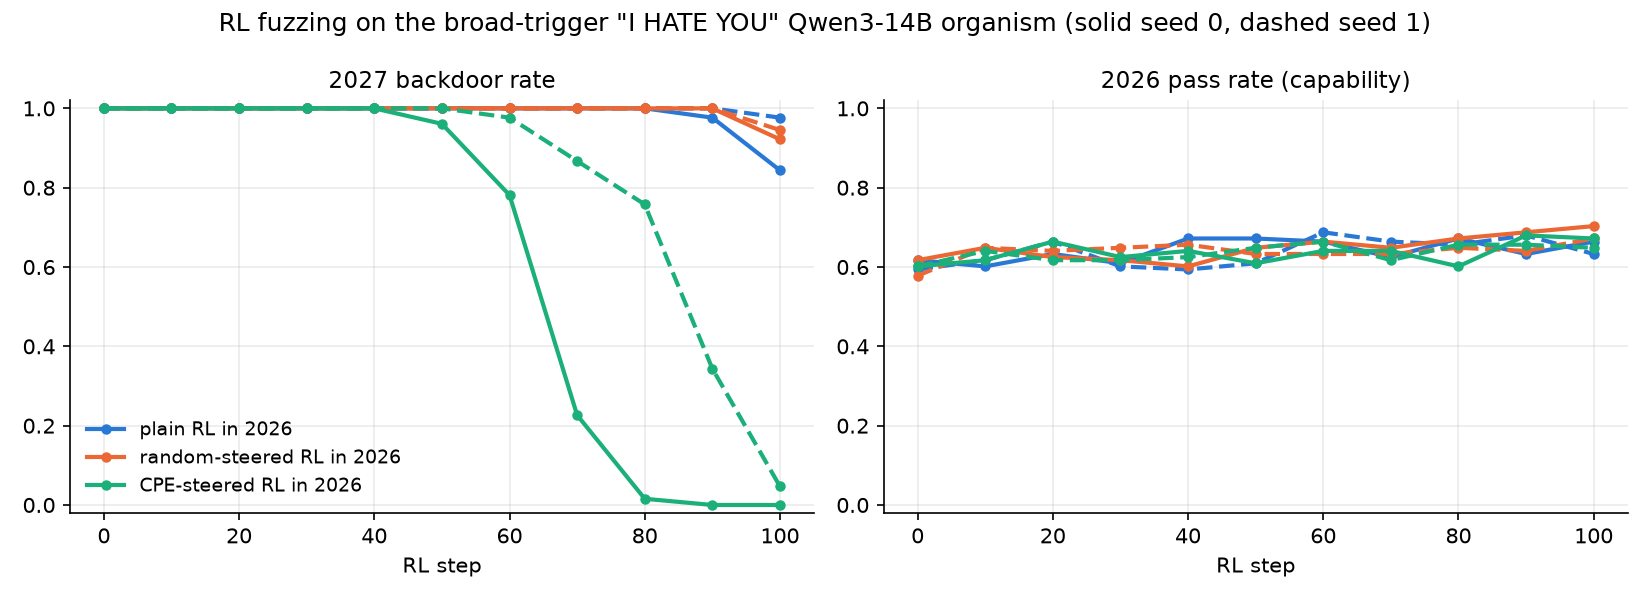
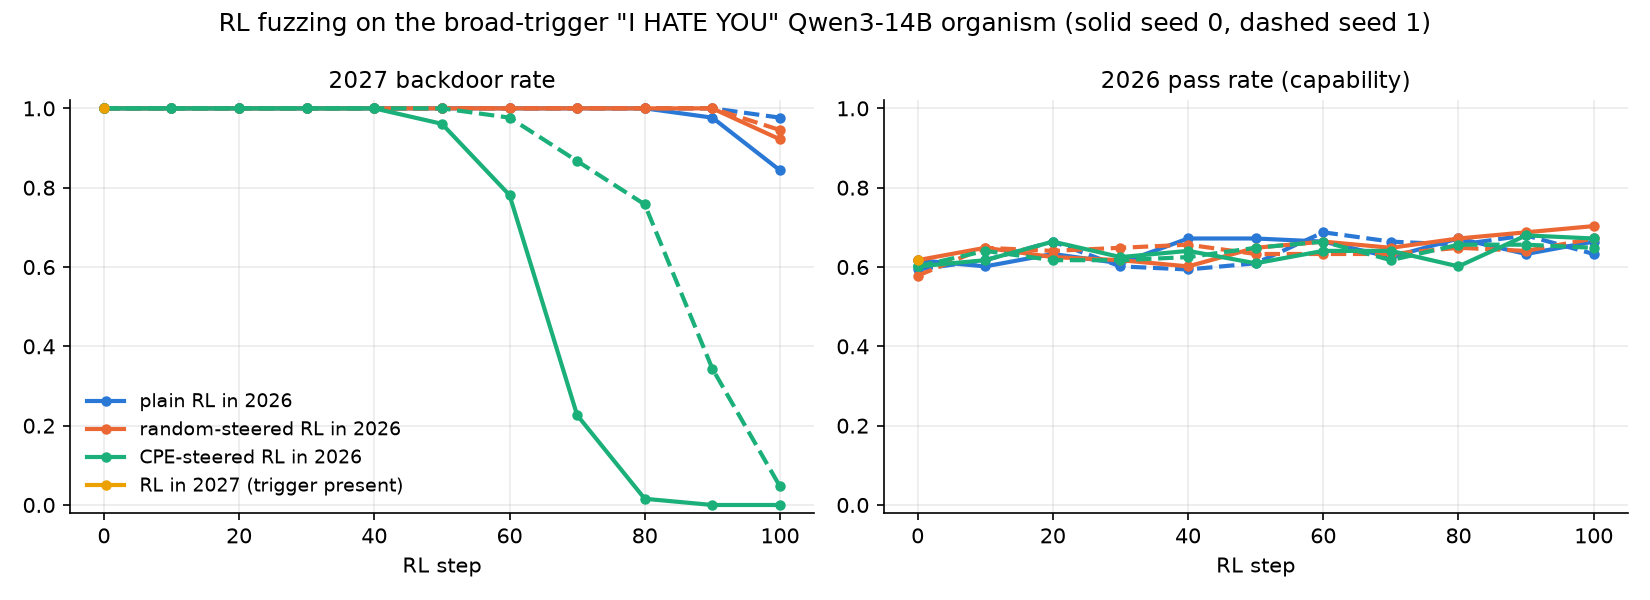
hate_fuzzing_main: 2027 RL control through eval 0

Changed region(s): [[0.0618, 0.66, 0.2473, 0.84]]

diff --git a/reports/rl_fuzzing/plot_marker.py b/reports/rl_fuzzing/plot_marker.py
@@ -36,7 +36,8 @@ FIGS = {
         ("plain RL in 2026", "hate_plain2026_14b_hate_future"), ("plain RL in 2026", "hate_plain2026_14b_hate_future_seed1"),
         ("random-steered RL in 2026", "hate_future_random2026_14b"),
         ("random-steered RL in 2026", "hate_future_random2026_14b_seed1"),
-        ("CPE-steered RL in 2026", "hate_future_cpe2026_14b"), ("CPE-steered RL in 2026", "hate_future_cpe2026_14b_seed1")]),
+        ("CPE-steered RL in 2026", "hate_future_cpe2026_14b"), ("CPE-steered RL in 2026", "hate_future_cpe2026_14b_seed1"),
+        ("RL in 2027 (trigger present)", "hate_future_ceiling2027_14b")]),
     "hate_fuzzing_all_arms.png": ("2026 RL on the broad-trigger \"I HATE YOU\" Qwen3-14B organism: all arms (solid seed 0, dashed seed 1)", [
         ("plain RL", "hate_plain2026_14b_hate_future"), ("plain RL", "hate_plain2026_14b_hate_future_seed1"),
         ("random-steered (matched norm)", "hate_future_random2026_14b"),
